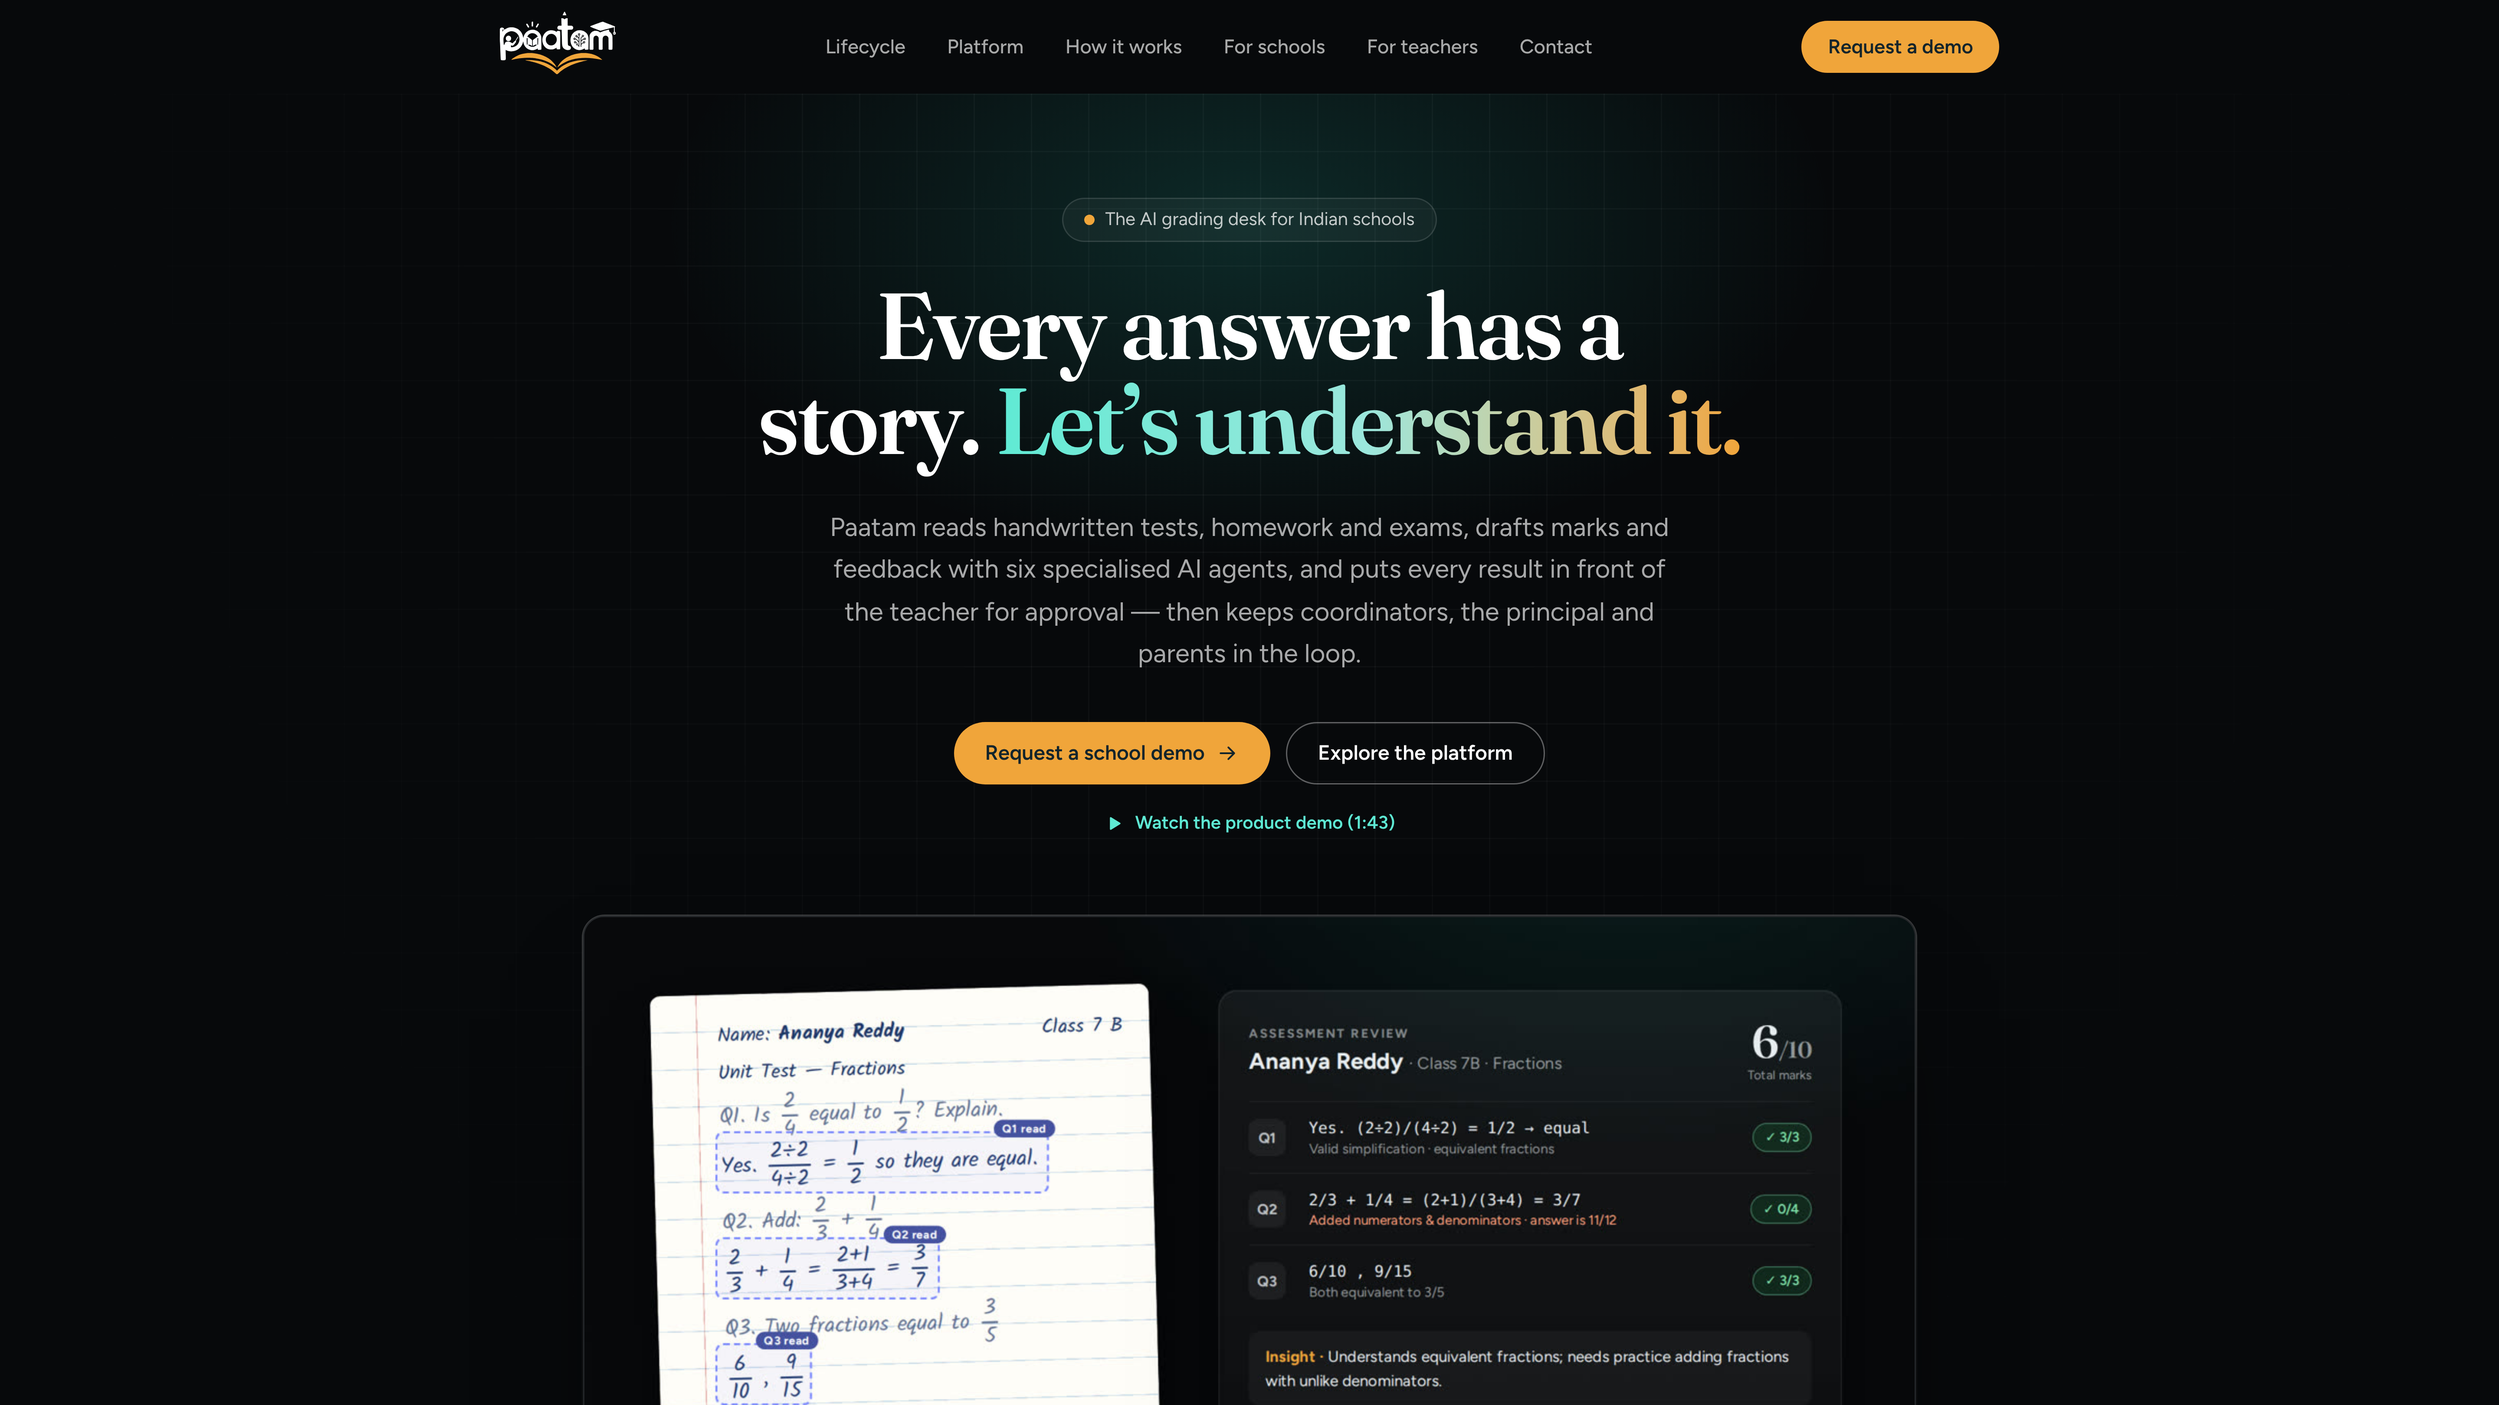
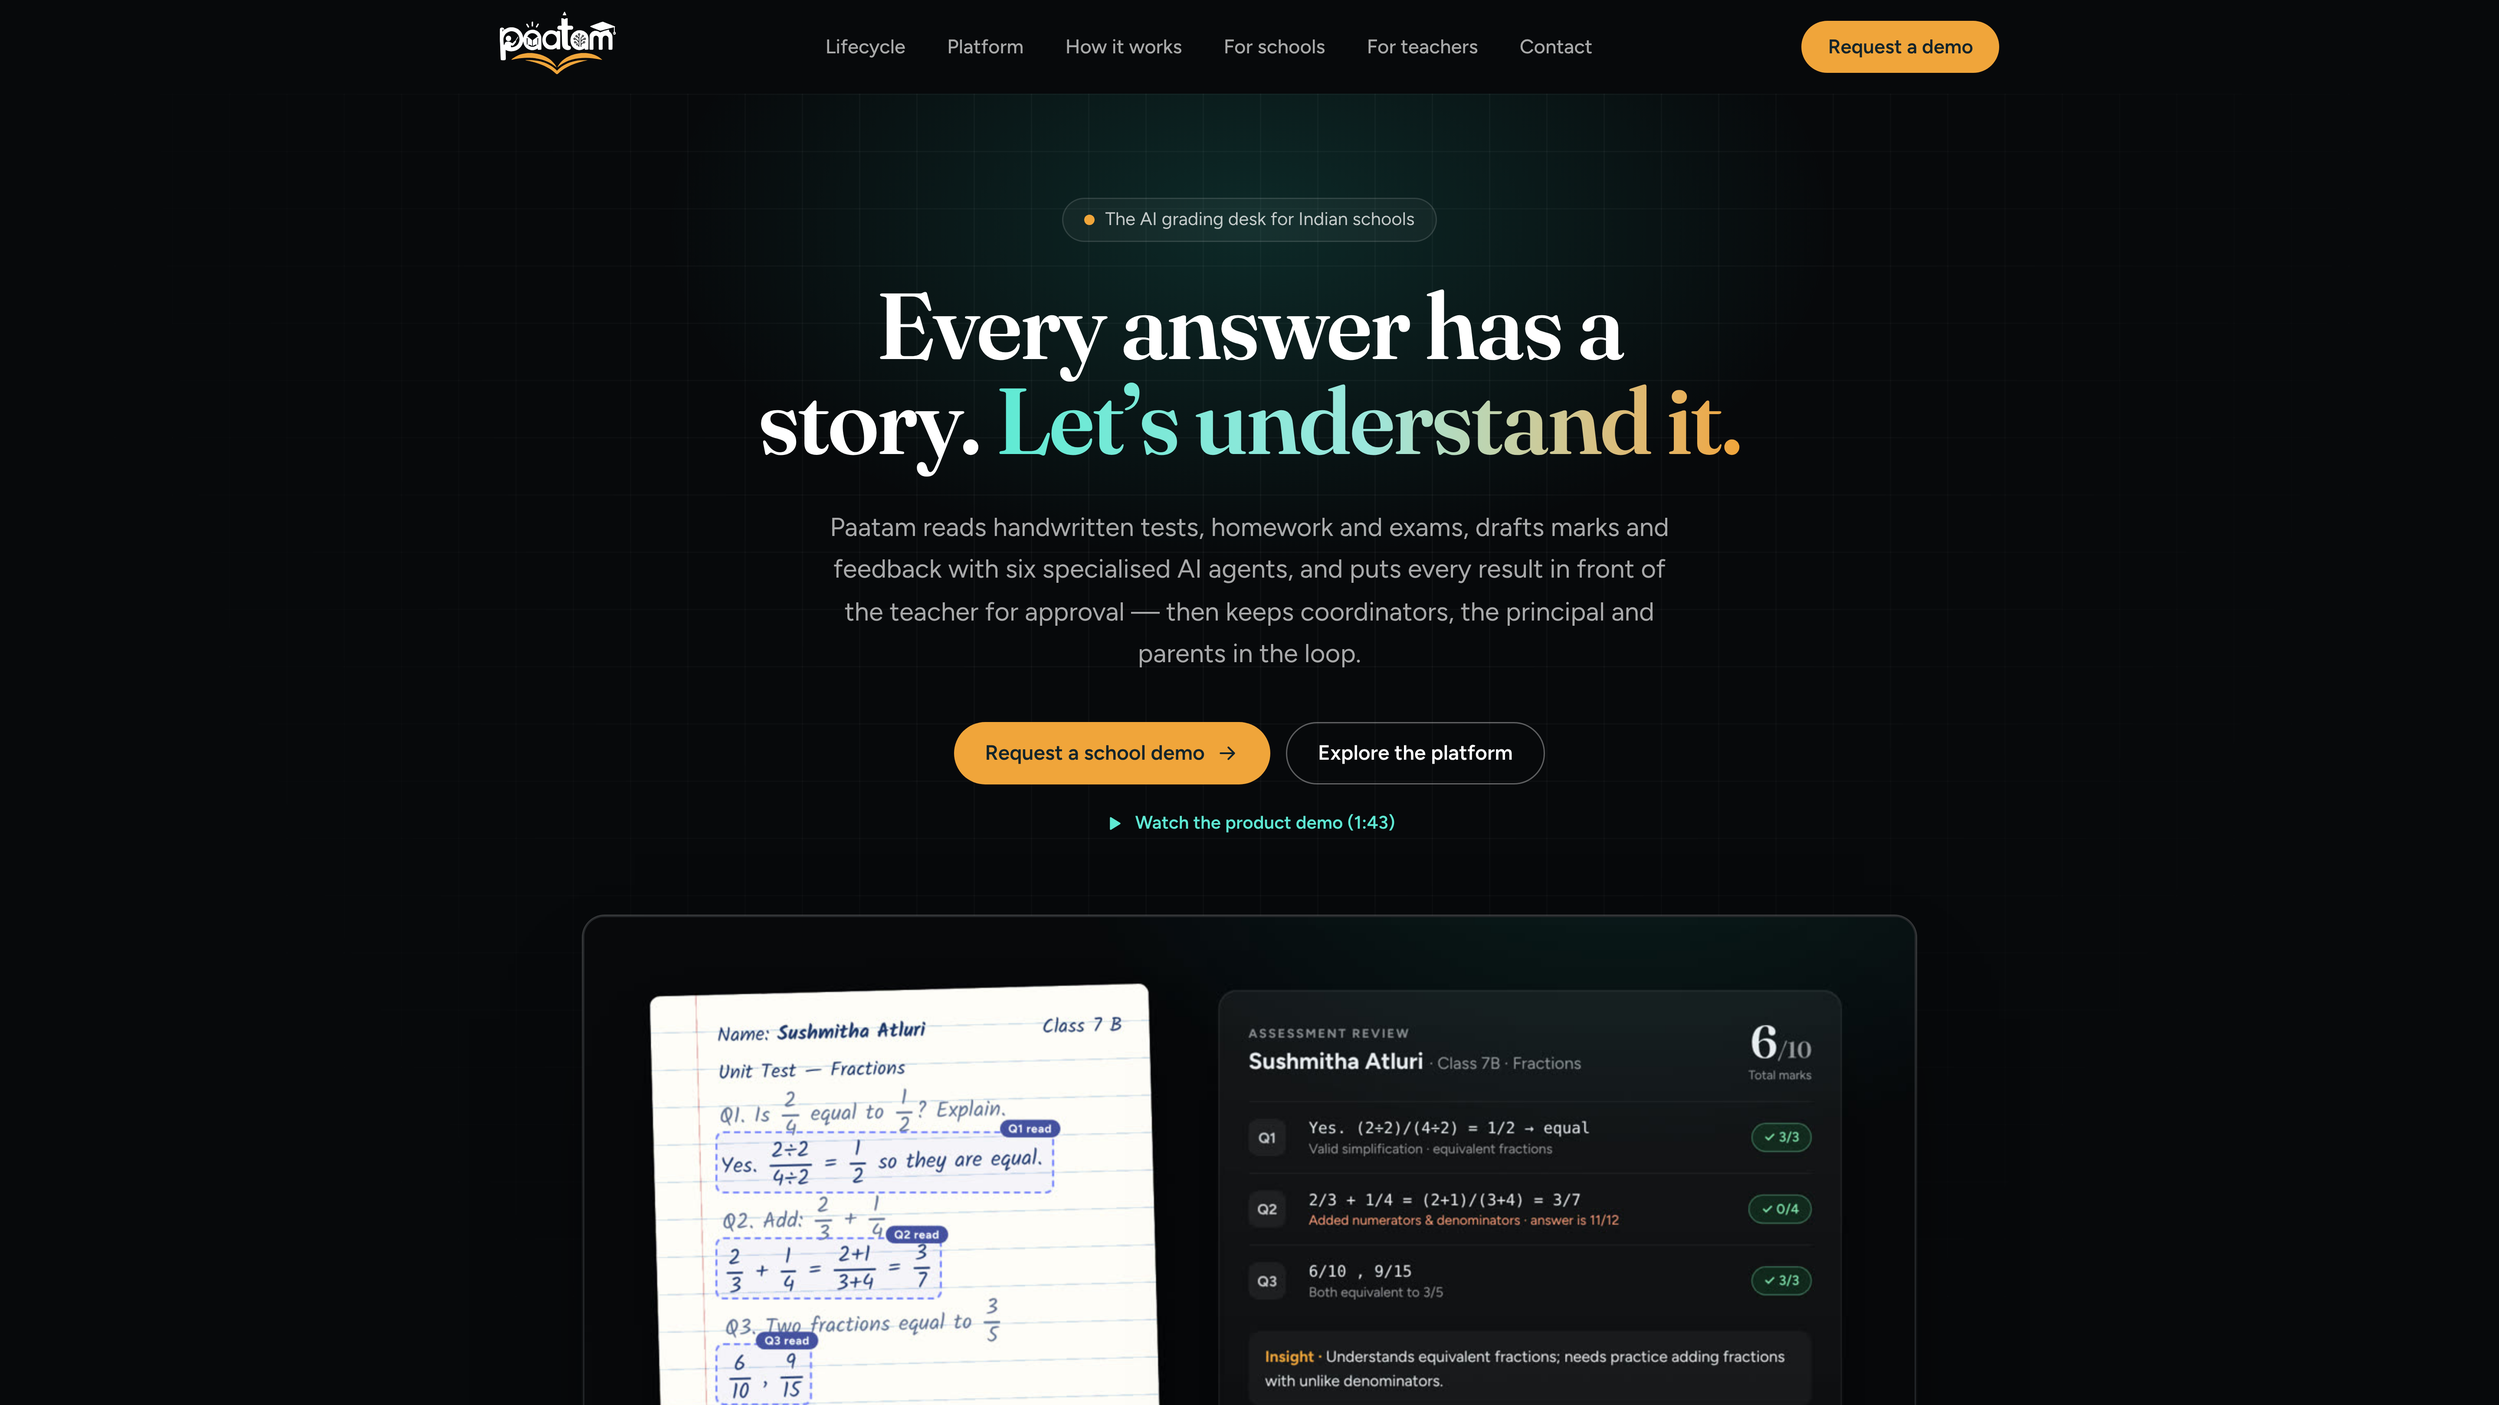
Classes 6–12 everywhere, class chart 6–12, clearer Explore and demo copy
- Every mention of the classes served now says 6–12, including the outro
  slide; the Head of School chart shows Classes 6–12. Plates re-captured.
- Explore Paatam: plain descriptions of each page and a clear heading.
- Product and Demo pages no longer advertise the video length or
  "in under two minutes".

Claude-Session: https://claude.ai/code/session_017KGtKM46pXfFrjPJnYKx5S

diff --git a/src/components/ExploreGrid.tsx b/src/components/ExploreGrid.tsx
@@ -4,18 +4,18 @@ import { Icon, type IconName } from "./ui/Icon";
 import { Section, SectionHeading } from "./ui/Section";
 
 const pages: { href: string; icon: IconName; title: string; body: string }[] = [
-  { href: "/product", icon: "grid", title: "Product", body: "The grading desk, its modules, and a 1:43 demo of the platform." },
-  { href: "/how-it-works", icon: "layers", title: "How it works", body: "From a handwritten answer sheet to teacher-approved insight." },
-  { href: "/for-teachers", icon: "teacher", title: "For teachers", body: "AI prepares the drafts. You make every decision that matters." },
-  { href: "/for-schools", icon: "student", title: "For schools", body: "Insight for coordinators and principals, built for Indian classrooms." },
-  { href: "/about", icon: "book", title: "About", body: "Our vision, and how we approach AI responsibly in schools." },
-  { href: "/demo", icon: "play", title: "Watch the demo", body: "See Paatam end to end, narrated by a teacher, in under two minutes." },
+  { href: "/product", icon: "grid", title: "Product", body: "The AI grading desk and every module, from marking to parent updates." },
+  { href: "/how-it-works", icon: "layers", title: "How it works", body: "How a handwritten answer sheet becomes teacher-approved marks and insight." },
+  { href: "/for-teachers", icon: "teacher", title: "For teachers", body: "Paatam drafts the marks and feedback. You review and approve every one." },
+  { href: "/for-schools", icon: "student", title: "For schools", body: "A clear view of learning across every class, for coordinators and principals." },
+  { href: "/about", icon: "book", title: "About", body: "Why we built Paatam, and how we use AI responsibly in schools." },
+  { href: "/demo", icon: "play", title: "Watch the demo", body: "See Paatam in action, from scanning an answer sheet to the parent update." },
 ];
 
 export function ExploreGrid() {
   return (
     <Section labelledBy="explore-title" className="bg-paper-deep">
-      <SectionHeading id="explore-title" eyebrow="Explore Paatam" title="Everything a school needs, one page at a time." />
+      <SectionHeading id="explore-title" eyebrow="Explore Paatam" title="See how Paatam works for your school." />
       <ul className="mt-12 grid gap-5 sm:grid-cols-2 lg:grid-cols-3">
         {pages.map((p, i) => (
           <li key={p.href} data-reveal style={revealDelay(i * 60)}>

diff --git a/src/app/demo/page.tsx b/src/app/demo/page.tsx
@@ -8,11 +8,11 @@ import { Icon } from "@/components/ui/Icon";
 export const metadata: Metadata = {
   title: "Product demo",
   description:
-    "Watch Paatam in under two minutes: handwritten answer sheets in, AI-drafted marks and feedback, teacher approval, and insight for coordinators, principals and parents.",
+    "Watch Paatam in action: handwritten answer sheets in, AI-drafted marks and feedback, teacher approval, and insight for coordinators, principals and parents.",
   alternates: { canonical: "/demo" },
   openGraph: {
     title: "Paatam.ai — product demo",
-    description: "The AI grading desk for Indian schools, in under two minutes.",
+    description: "See the AI grading desk for Indian schools in action.",
     images: [{ url: "/videos/paatam-demo.jpg", width: 1280, height: 720 }],
     videos: [{ url: "/videos/paatam-demo.mp4", type: "video/mp4", width: 1920, height: 1080 }],
   },
@@ -28,10 +28,10 @@ export default function DemoPage() {
   return (
     <SiteShell>
       <PageHero
-        eyebrow="Product demo · 1:43"
+        eyebrow="Product demo"
         title={
           <>
-            The AI grading desk for Indian schools, <span className="text-primary">in under two minutes.</span>
+            The AI grading desk for Indian schools, <span className="text-primary">in action.</span>
           </>
         }
       >

diff --git a/src/app/product/page.tsx b/src/app/product/page.tsx
@@ -8,7 +8,7 @@ import { Product } from "@/components/sections/Product";
 export const metadata: Metadata = {
   title: "Product",
   description:
-    "Paatam's AI grading desk: scan handwritten answer sheets, review AI-drafted marks and feedback, and turn every assessment into learning insight. Watch the 1:43 demo.",
+    "Paatam's AI grading desk: scan handwritten answer sheets, review AI-drafted marks and feedback, and turn every assessment into learning insight. Watch the product demo.",
   alternates: { canonical: "/product" },
 };
 
@@ -22,7 +22,7 @@ export default function ProductPage() {
             One grading desk, from answer sheet <span className="text-primary">to insight.</span>
           </>
         }
-        intro="Paatam reads handwritten tests, homework and exams, drafts marks and feedback, and puts every result in front of the teacher for approval. Watch the platform in under two minutes."
+        intro="Paatam reads handwritten tests, homework and exams, drafts marks and feedback, and puts every result in front of the teacher for approval. Watch the demo to see it in action."
       >
         <DemoVideo className="mt-12" />
       </PageHero>

diff --git a/src/components/v2/V2Sections.tsx b/src/components/v2/V2Sections.tsx
@@ -68,7 +68,7 @@ export function V2Hero() {
           </a>
         </div>
         <Link href="/demo" className="mt-5 inline-flex items-center gap-2 text-sm font-semibold text-mint hover:text-white">
-          <Icon name="play" size={16} /> Watch the product demo (1:43)
+          <Icon name="play" size={16} /> Watch the product demo
         </Link>
 
         <div className="relative mx-auto mt-14 max-w-5xl" data-reveal>
@@ -325,7 +325,7 @@ export function V2Schools() {
           id="v2-schools-title"
           eyebrow="For schools"
           title="Built for the whole school — from the classroom to the principal’s office."
-          intro="Built for Indian classrooms and starting in Andhra Pradesh, for schools serving Classes 5–12. Students keep writing by hand; everyone else gets the view they need."
+          intro="Built for Indian classrooms and starting in Andhra Pradesh, for schools serving Classes 6–12. Students keep writing by hand; everyone else gets the view they need."
         />
         <ul className="mt-12 grid gap-4 sm:grid-cols-2 lg:grid-cols-4">
           {roles.map((r, i) => (

diff --git a/src/components/v2/ModuleScreens.tsx b/src/components/v2/ModuleScreens.tsx
@@ -545,12 +545,13 @@ export function CoordinatorScreen() {
 /* ------------------------------- Head of school -------------------------------- */
 
 const grades = [
-  { g: "5", v: 79 },
   { g: "6", v: 76 },
   { g: "7", v: 68 },
   { g: "8", v: 74 },
   { g: "9", v: 71 },
   { g: "10", v: 77 },
+  { g: "11", v: 73 },
+  { g: "12", v: 79 },
 ];
 
 const heat = {
@@ -582,7 +583,7 @@ export function HeadOfSchoolScreen() {
       </div>
       <div className="grid grid-cols-1 gap-3 lg:grid-cols-[1fr_1.2fr]">
         <Panel title="Average by class">
-          <div className="flex h-36 items-end gap-2" role="img" aria-label="Average by class: Class 5 79%, 6 76%, 7 68%, 8 74%, 9 71%, 10 77%.">
+          <div className="flex h-36 items-end gap-2" role="img" aria-label="Average by class: Class 6 76%, 7 68%, 8 74%, 9 71%, 10 77%, 11 73%, 12 79%.">
             {grades.map((g) => (
               <div key={g.g} className="flex flex-1 flex-col items-center gap-1.5" title={`Class ${g.g}: ${g.v}%`}>
                 <span className="text-[0.68rem] font-semibold text-white/70">{g.v}%</span>

diff --git a/scripts/videos/demo/demo.html b/scripts/videos/demo/demo.html
@@ -104,7 +104,7 @@
   <div class="seg" id="sOutro">
     <div class="abs" style="left:0;right:0;top:250px;display:flex;justify-content:center"><img id="outroLogo" src="../../../public/brand/paatam-logo-white.svg" style="height:150px" alt="" /></div>
     <div class="abs center-line serif" id="outroLine" style="top:500px;font-size:64px;line-height:1.1"><span id="outroA" style="display:inline-block">Marks in minutes.</span> <span class="grad" id="outroB" style="display:inline-block">Judgement stays human.</span></div>
-    <div class="abs center-line" id="outroSub" style="top:620px;font-size:26px;color:rgba(232,237,240,.7)">Teacher-first AI for Classes 5–12 · Starting in Andhra Pradesh</div>
+    <div class="abs center-line" id="outroSub" style="top:620px;font-size:26px;color:rgba(232,237,240,.7)">Teacher-first AI for Classes 6–12 · Starting in Andhra Pradesh</div>
     <div class="abs center-line" id="outroCta" style="top:720px"><span class="cta">Request a school demo →</span></div>
   </div>
 

diff --git a/src/components/DemoVideo.tsx b/src/components/DemoVideo.tsx
@@ -2,7 +2,7 @@ type DemoVideoProps = {
   className?: string;
 };
 
-/** The narrated product demo (1:43) with native controls, captions and a download fallback. */
+/** The narrated product demo with native controls, captions and a download fallback. */
 export function DemoVideo({ className = "" }: DemoVideoProps) {
   return (
     <figure className={className}>
@@ -27,7 +27,7 @@ export function DemoVideo({ className = "" }: DemoVideoProps) {
         </video>
       </div>
       <figcaption className="mt-3 text-sm text-muted">
-        Product demo · 1:43 · Product screens are illustrative, with fictional students, teachers and marks.
+        Product screens are illustrative, with fictional students, teachers and marks.
       </figcaption>
     </figure>
   );

diff --git a/src/components/sections/IndianClassrooms.tsx b/src/components/sections/IndianClassrooms.tsx
@@ -45,7 +45,7 @@ export function IndianClassrooms() {
                 </span>
                 <p className="text-xs font-bold uppercase tracking-[0.14em] text-accent-strong">Where we begin</p>
                 <p className="mt-1 font-display text-2xl font-semibold text-ink">Andhra Pradesh</p>
-                <p className="mt-1 text-muted">Our starting point: schools serving students in Classes 5–12.</p>
+                <p className="mt-1 text-muted">Our starting point: schools serving students in Classes 6–12.</p>
               </li>
               <li className="relative">
                 <span aria-hidden="true" className="absolute -left-8 top-0.5 inline-flex h-5 w-5 items-center justify-center rounded-full border-2 border-primary bg-surface" />

diff --git a/src/components/sections/Hero.tsx b/src/components/sections/Hero.tsx
@@ -48,7 +48,7 @@ export function Hero() {
           <ul className="mt-10 flex flex-wrap gap-x-6 gap-y-3 text-sm text-ink-soft">
             {([
               { icon: "teacher", text: "Teachers approve every result" },
-              { icon: "student", text: "Designed for Classes 5–12" },
+              { icon: "student", text: "Designed for Classes 6–12" },
               { icon: "mapPin", text: "Starting in Andhra Pradesh" },
             ] as const).map((item) => (
               <li key={item.text} className="inline-flex items-center gap-2">

diff --git a/src/components/sections/FAQ.tsx b/src/components/sections/FAQ.tsx
@@ -15,7 +15,7 @@ export const faqs = [
   },
   {
     q: "Which classes does Paatam support?",
-    a: "We’re starting with schools serving students in Classes 5–12. Subjects and assessment formats are something we’ll discuss with each school, based on how it assesses today.",
+    a: "We’re starting with schools serving students in Classes 6–12. Subjects and assessment formats are something we’ll discuss with each school, based on how it assesses today.",
   },
   {
     q: "Which languages can students write in?",

diff --git a/src/components/sections/ForSchools.tsx b/src/components/sections/ForSchools.tsx
@@ -72,7 +72,7 @@ export function ForSchools() {
             We’re looking for schools to build Paatam with us.
           </h3>
           <p className="mt-3 leading-relaxed text-ink-soft">
-            We’re inviting schools serving Classes 5–12, starting in Andhra Pradesh, to pilot Paatam and help shape
+            We’re inviting schools serving Classes 6–12, starting in Andhra Pradesh, to pilot Paatam and help shape
             it around real classrooms.
           </p>
           <ol className="mt-6 space-y-4">

diff --git a/src/app/for-schools/page.tsx b/src/app/for-schools/page.tsx
@@ -22,7 +22,7 @@ export default function ForSchoolsPage() {
             Clearer learning insight, <span className="text-primary">across every class.</span>
           </>
         }
-        intro="Built for Indian classrooms serving Classes 5–12. Teachers stay in control, and leaders see where learning needs support."
+        intro="Built for Indian classrooms serving Classes 6–12. Teachers stay in control, and leaders see where learning needs support."
       />
       <ForSchools />
       <IndianClassrooms />
